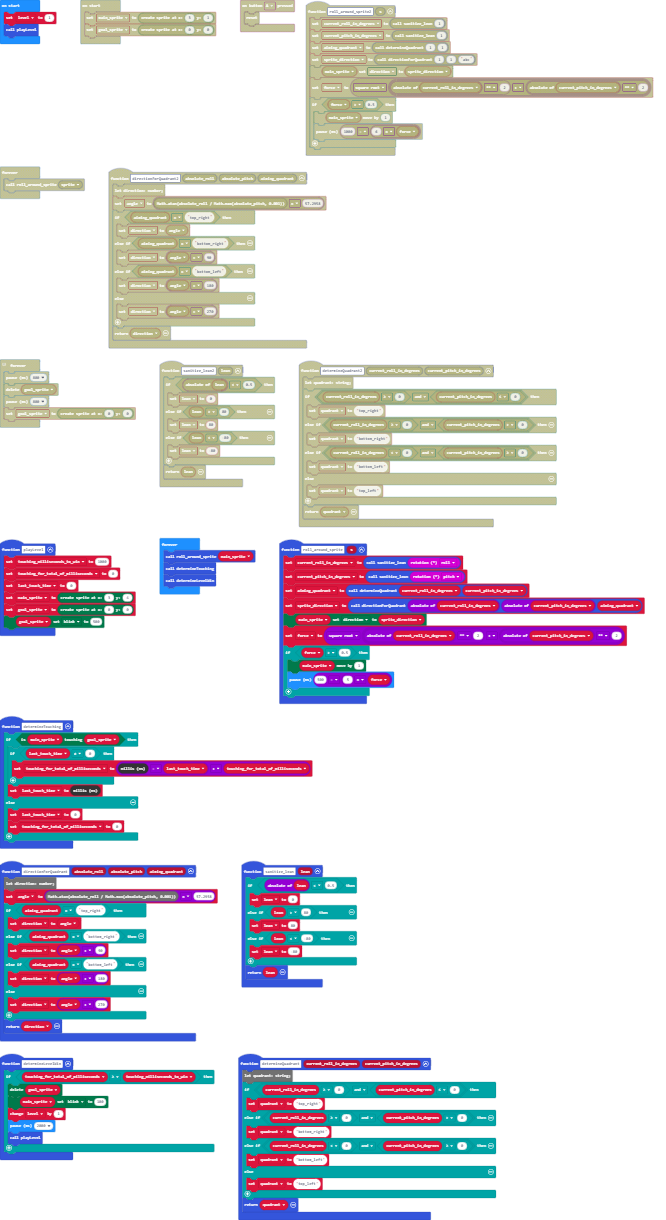
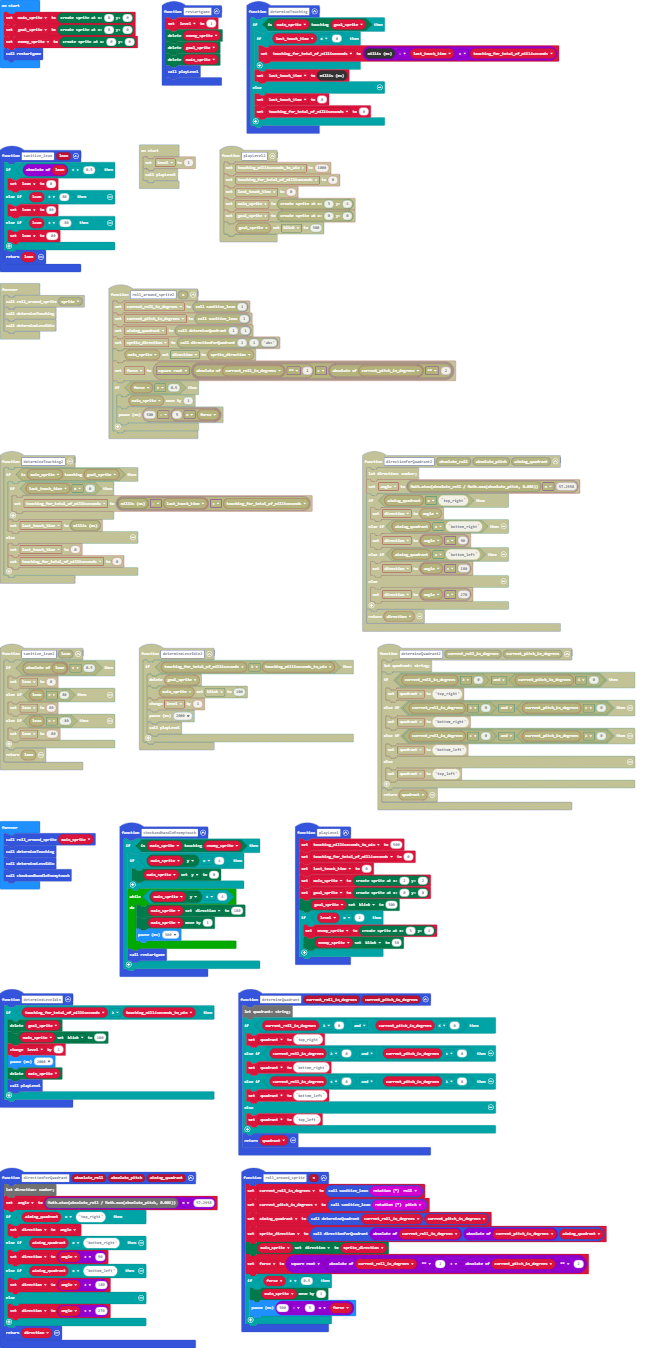
Added enemy sprite and level 2

diff --git a/main.ts b/main.ts
@@ -19,12 +19,20 @@ function sanitize_lean (lean: number) {
     }
     return lean
 }
+function restartgame () {
+    level = 1
+    enemy_sprite.delete()
+    goal_sprite.delete()
+    main_sprite.delete()
+    playLevel()
+}
 function determineLevelWin () {
     if (touching_for_total_of_milliseconds >= touching_milliseconds_to_win) {
         goal_sprite.delete()
         main_sprite.set(LedSpriteProperty.Blink, 100)
         level += 1
         basic.pause(2000)
+        main_sprite.delete()
         playLevel()
     }
 }
@@ -41,13 +49,30 @@ if (current_roll_in_degrees >= 0 && current_pitch_in_degrees <= 0) {
     }
     return quadrant
 }
+function checkandhandleEnemytouch () {
+    if (main_sprite.isTouching(enemy_sprite)) {
+        if (main_sprite.get(LedSpriteProperty.Y) == 4) {
+            main_sprite.set(LedSpriteProperty.Y, 0)
+        }
+        while (main_sprite.get(LedSpriteProperty.Y) < 4) {
+            main_sprite.set(LedSpriteProperty.Direction, 180)
+            main_sprite.move(1)
+            basic.pause(300)
+        }
+        restartgame()
+    }
+}
 function playLevel () {
-    touching_milliseconds_to_win = 1000
+    touching_milliseconds_to_win = 500
     touching_for_total_of_milliseconds = 0
     last_touch_time = 0
-    main_sprite = game.createSprite(3, 4)
+    main_sprite = game.createSprite(2, 2)
     goal_sprite = game.createSprite(0, 0)
     goal_sprite.set(LedSpriteProperty.Blink, 500)
+    if (level == 2) {
+        enemy_sprite = game.createSprite(3, 4)
+        enemy_sprite.set(LedSpriteProperty.Blink, 50)
+    }
 }
 function roll_around_sprite (s: game.LedSprite) {
     current_roll_in_degrees = sanitize_lean(input.rotation(Rotation.Roll))
@@ -82,15 +107,20 @@ let aiming_quadrant = ""
 let current_pitch_in_degrees = 0
 let current_roll_in_degrees = 0
 let touching_milliseconds_to_win = 0
+let level = 0
 let lean = 0
 let touching_for_total_of_milliseconds = 0
 let last_touch_time = 0
+let enemy_sprite: game.LedSprite = null
 let goal_sprite: game.LedSprite = null
 let main_sprite: game.LedSprite = null
-let level = 1
-playLevel()
+main_sprite = game.createSprite(0, 0)
+goal_sprite = game.createSprite(0, 0)
+enemy_sprite = game.createSprite(0, 0)
+restartgame()
 basic.forever(function () {
     roll_around_sprite(main_sprite)
     determineTouching()
     determineLevelWin()
+    checkandhandleEnemytouch()
 })

diff --git a/main.py b/main.py
@@ -15,6 +15,10 @@ def sanitize_lean(lean: number):
     elif lean < -80:
         lean = -80
     return lean
+def restartgame():
+    global level
+    level = 1
+    playLevel()
 def determineLevelWin():
     global level
     if touching_for_total_of_milliseconds >= touching_milliseconds_to_win:
@@ -22,6 +26,8 @@ def determineLevelWin():
         main_sprite.set(LedSpriteProperty.BLINK, 100)
         level += 1
         basic.pause(2000)
+        main_sprite.delete()
+        playLevel()
 def determineQuadrant(current_roll_in_degrees: number, current_pitch_in_degrees: number):
     if current_roll_in_degrees >= 0 and current_pitch_in_degrees <= 0:
         quadrant = "top_right"
@@ -32,6 +38,26 @@ def determineQuadrant(current_roll_in_degrees: number, current_pitch_in_degrees:
     else:
         quadrant = "top_left"
     return quadrant
+def checkandhandleEnemytouch():
+    if main_sprite.is_touching(enemy_sprite):
+        if main_sprite.get(LedSpriteProperty.Y) == 4:
+            main_sprite.set(LedSpriteProperty.Y, 0)
+        while main_sprite.get(LedSpriteProperty.Y) < 4:
+            main_sprite.set(LedSpriteProperty.DIRECTION, 180)
+            main_sprite.move(1)
+            basic.pause(300)
+        restartgame()
+def playLevel():
+    global touching_milliseconds_to_win, touching_for_total_of_milliseconds, last_touch_time, main_sprite, goal_sprite, enemy_sprite
+    touching_milliseconds_to_win = 500
+    touching_for_total_of_milliseconds = 0
+    last_touch_time = 0
+    main_sprite = game.create_sprite(2, 2)
+    goal_sprite = game.create_sprite(0, 0)
+    goal_sprite.set(LedSpriteProperty.BLINK, 500)
+    if level == 2:
+        enemy_sprite = game.create_sprite(4, 3)
+        enemy_sprite.set(LedSpriteProperty.BLINK, 100)
 def roll_around_sprite(s: game.LedSprite):
     global current_roll_in_degrees, current_pitch_in_degrees, aiming_quadrant, sprite_direction, force
     current_roll_in_degrees = sanitize_lean(input.rotation(Rotation.ROLL))
@@ -63,41 +89,19 @@ sprite_direction = 0
 aiming_quadrant = ""
 current_pitch_in_degrees = 0
 current_roll_in_degrees = 0
+enemy_sprite: game.LedSprite = None
+touching_milliseconds_to_win = 0
+level = 0
 lean = 0
+touching_for_total_of_milliseconds = 0
+last_touch_time = 0
 goal_sprite: game.LedSprite = None
 main_sprite: game.LedSprite = None
-last_touch_time = 0
-touching_for_total_of_milliseconds = 0
-touching_milliseconds_to_win = 0
-level = 1
-touching_milliseconds_to_win = 1000
-touching_for_total_of_milliseconds = 0
-last_touch_time = 0
-main_sprite = game.create_sprite(3, 1)
-goal_sprite = game.create_sprite(0, 0)
+restartgame()
 
 def on_forever():
     roll_around_sprite(main_sprite)
     determineTouching()
     determineLevelWin()
+    checkandhandleEnemytouch()
 basic.forever(on_forever)
-
-# Comment by John's dad:
-# 
-# Note that sprites will roll along edges when relative direction exceeds 45 current_pitch_in_degrees in effect simulating some degree of "wall friction". Thus there is no need to program specifically for edge cases. For example, this will not move when direction is set below 45 (but will at anything above that):
-# 
-# s = game.create_sprite(1, 0)
-# 
-# s.set(LedSpriteProperty.DIRECTION, 45)
-# 
-# s.move(4)
-# 
-# Note also that the only way to achieve local scope variables using blocks is to have them as python function parameters. Blocks will generate any others as globals
-
-def on_forever2():
-    global goal_sprite
-    basic.pause(800)
-    goal_sprite.delete()
-    basic.pause(800)
-    goal_sprite = game.create_sprite(0, 0)
-basic.forever(on_forever2)
